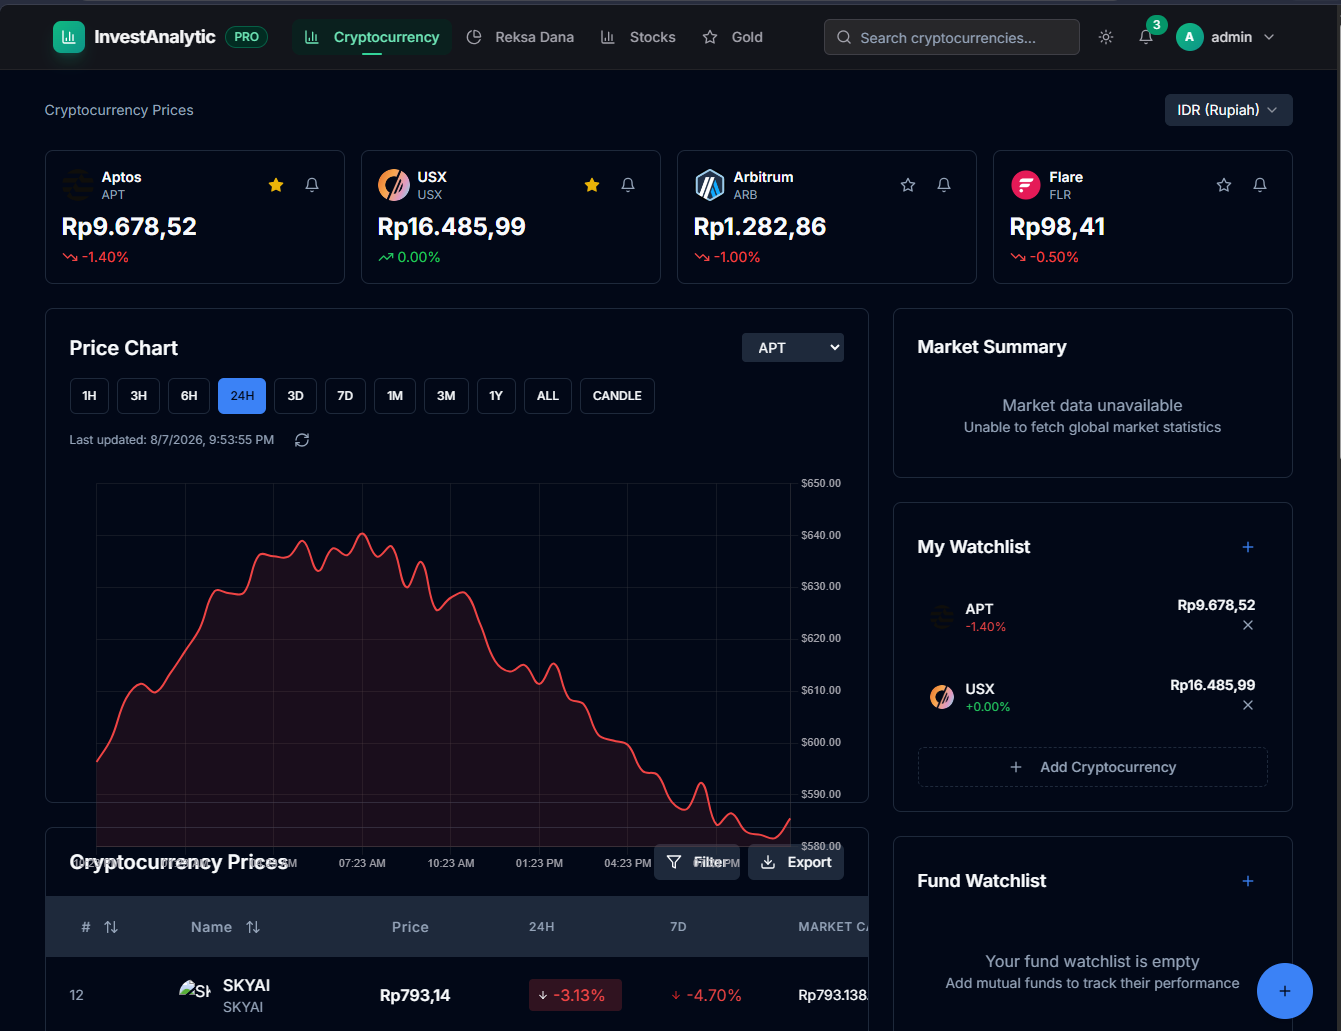
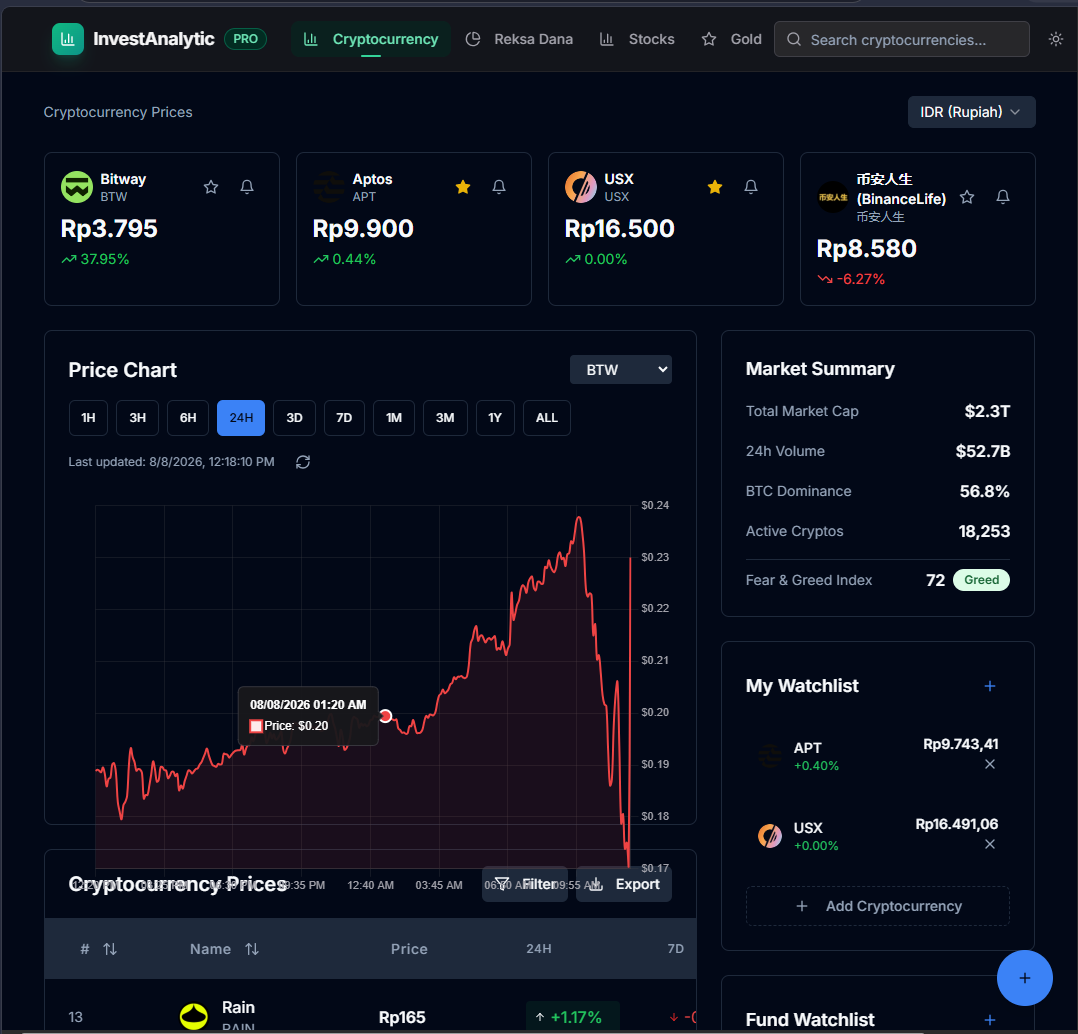
feat: add auth, reksa dana, postgres/sqlite fallback, redis support, dashboard fixes

diff --git a/server/storage-mem.ts b/server/storage-mem.ts
@@ -1,11 +1,12 @@
 import type { IStorage } from "./storage-base";
 import { 
-  type Cryptocurrency, type InsertCryptocurrency, type Watchlist, type InsertWatchlist, type PriceAlert, type InsertPriceAlert, type PriceHistory, type InsertPriceHistory, type User, type InsertUser, type MutualFund, type InsertMutualFund, type MutualFundHistory, type InsertMutualFundHistory, type FundWatchlist, type InsertFundWatchlist, type Stock, type InsertStock, type StockHistory, type InsertStockHistory, type StockWatchlist, type InsertStockWatchlist, type Gold, type InsertGold, type GoldHistory, type InsertGoldHistory, type GoldWatchlist, type InsertGoldWatchlist, type Portfolio, type InsertPortfolio, type CurrencyRate, type InsertCurrencyRate
+  type Cryptocurrency, type InsertCryptocurrency, type Watchlist, type InsertWatchlist, type PriceAlert, type InsertPriceAlert, type PriceHistory, type InsertPriceHistory, type User, type InsertUser, type MutualFund, type InsertMutualFund, type MutualFundHistory, type InsertMutualFundHistory, type FundWatchlist, type InsertFundWatchlist, type Stock, type InsertStock, type StockHistory, type InsertStockHistory, type StockWatchlist, type InsertStockWatchlist, type Gold, type InsertGold, type GoldHistory, type InsertGoldHistory, type GoldWatchlist, type InsertGoldWatchlist, type Portfolio, type InsertPortfolio, type CurrencyRate, type InsertCurrencyRate, type UserSession, type InsertUserSession
 } from "@shared/schema";
 import { randomUUID } from "crypto";
 
 export class MemStorage implements IStorage {
   private users = new Map<string, User>();
+  private userSessions = new Map<string, UserSession>();
   private cryptocurrencies = new Map<string, Cryptocurrency>();
   private watchlists = new Map<string, Watchlist>();
   private priceAlerts = new Map<string, PriceAlert>();
@@ -232,6 +233,20 @@ export class MemStorage implements IStorage {
     return history;
   }
 
+  async addFundHistoryBatch(historyData: InsertMutualFundHistory[]): Promise<MutualFundHistory[]> {
+    const results: MutualFundHistory[] = [];
+    for (const data of historyData) {
+      const id = randomUUID();
+      const history: MutualFundHistory = {
+        ...data,
+        id,
+      };
+      this.fundHistory.set(id, history);
+      results.push(history);
+    }
+    return results;
+  }
+
   async getFundHistory(fundId: string, days: number): Promise<MutualFundHistory[]> {
     const cutoffTime = new Date(Date.now() - (days * 24 * 60 * 60 * 1000));
     return Array.from(this.fundHistory.values())
@@ -332,6 +347,23 @@ export class MemStorage implements IStorage {
     return history;
   }
 
+  async addStockHistoryBatch(historyData: InsertStockHistory[]): Promise<StockHistory[]> {
+    const results: StockHistory[] = [];
+    for (const data of historyData) {
+      const id = randomUUID();
+      const history: StockHistory = {
+        id,
+        stockId: data.stockId,
+        price: data.price,
+        timestamp: new Date(),
+        volume: data.volume || null,
+      };
+      this.stockHistory.set(id, history);
+      results.push(history);
+    }
+    return results;
+  }
+
   async getStockHistory(stockId: string, hours: number): Promise<StockHistory[]> {
     const cutoffTime = new Date(Date.now() - (hours * 60 * 60 * 1000));
     return Array.from(this.stockHistory.values())
@@ -411,6 +443,21 @@ export class MemStorage implements IStorage {
     };
     this.goldHistory.set(id, history);
     return history;
+  }
+
+  async addGoldHistoryBatch(historyData: InsertGoldHistory[]): Promise<GoldHistory[]> {
+    const results: GoldHistory[] = [];
+    for (const data of historyData) {
+      const id = randomUUID();
+      const history: GoldHistory = {
+        ...data,
+        id,
+        timestamp: new Date()
+      };
+      this.goldHistory.set(id, history);
+      results.push(history);
+    }
+    return results;
   }
 
   async getGoldHistory(goldId: string, hours: number): Promise<GoldHistory[]> {

diff --git a/server/storage-sqlite.ts b/server/storage-sqlite.ts
@@ -534,6 +534,18 @@ export class SqliteStorage implements IStorage {
     return row;
   }
 
+  async addFundHistoryBatch(historyData: InsertMutualFundHistory[]): Promise<MutualFundHistory[]> {
+    const insert = db.prepare("INSERT INTO mutual_fund_history (id, fund_id, date, nav, timestamp) VALUES (?, ?, ?, ?, ?)");
+    const results: MutualFundHistory[] = [];
+    for (const data of historyData) {
+      const id = randomUUID();
+      const timestamp = new Date().toISOString();
+      insert.run(id, data.fundId, data.date, data.nav, timestamp);
+      results.push({ id, fundId: data.fundId, date: data.date, nav: data.nav, timestamp: new Date(timestamp) } as MutualFundHistory);
+    }
+    return results;
+  }
+
   async getFundHistory(fundId: string, days: number): Promise<MutualFundHistory[]> {
     const cutoffTime = new Date(Date.now() - (days * 24 * 60 * 60 * 1000)).toISOString();
     const rows = db.prepare("SELECT * FROM mutual_fund_history WHERE fund_id = ? AND date >= ? ORDER BY date ASC").all(fundId, cutoffTime) as MutualFundHistory[];
@@ -636,6 +648,18 @@ export class SqliteStorage implements IStorage {
     return row;
   }
 
+  async addStockHistoryBatch(historyData: InsertStockHistory[]): Promise<StockHistory[]> {
+    const insert = db.prepare("INSERT INTO stock_history (id, stock_id, price, volume, timestamp) VALUES (?, ?, ?, ?, ?)");
+    const results: StockHistory[] = [];
+    for (const data of historyData) {
+      const id = randomUUID();
+      const timestamp = new Date().toISOString();
+      insert.run(id, data.stockId, data.price, data.volume || null, timestamp);
+      results.push({ id, stockId: data.stockId, price: data.price, volume: data.volume || null, timestamp: new Date(timestamp) } as StockHistory);
+    }
+    return results;
+  }
+
   async getStockHistory(stockId: string, hours: number): Promise<StockHistory[]> {
     const cutoffTime = new Date(Date.now() - (hours * 60 * 60 * 1000)).toISOString();
     const rows = db.prepare("SELECT * FROM stock_history WHERE stock_id = ? AND timestamp >= ? ORDER BY timestamp ASC").all(stockId, cutoffTime) as StockHistory[];
@@ -720,6 +744,18 @@ export class SqliteStorage implements IStorage {
     db.prepare("INSERT INTO gold_history (id, gold_id, price) VALUES (?, ?, ?)").run(id, historyData.goldId, historyData.price);
     const row = db.prepare("SELECT * FROM gold_history WHERE id = ?").get(id) as GoldHistory;
     return row;
+  }
+
+  async addGoldHistoryBatch(historyData: InsertGoldHistory[]): Promise<GoldHistory[]> {
+    const insert = db.prepare("INSERT INTO gold_history (id, gold_id, price, timestamp) VALUES (?, ?, ?, ?)");
+    const results: GoldHistory[] = [];
+    for (const data of historyData) {
+      const id = randomUUID();
+      const timestamp = new Date().toISOString();
+      insert.run(id, data.goldId, data.price, timestamp);
+      results.push({ id, goldId: data.goldId, price: data.price, timestamp: new Date(timestamp) } as GoldHistory);
+    }
+    return results;
   }
 
   async getGoldHistory(goldId: string, hours: number): Promise<GoldHistory[]> {

diff --git a/shared/schema.ts b/shared/schema.ts
@@ -76,6 +76,26 @@ export const users = pgTable("users", {
   id: varchar("id").primaryKey().default(sql`gen_random_uuid()`),
   username: text("username").notNull().unique(),
   password: text("password").notNull(),
+  last_login: timestamp("last_login"),
+  last_activity: timestamp("last_activity"),
+  login_count: integer("login_count").default(0),
+  created_at: timestamp("created_at").defaultNow(),
+  updated_at: timestamp("updated_at").defaultNow(),
+});
+
+export const userSessions = pgTable("user_sessions", {
+  id: varchar("id").primaryKey().default(sql`gen_random_uuid()`),
+  userId: varchar("user_id").notNull().references(() => users.id),
+  browser: text("browser"),
+  os: text("os"),
+  device: text("device"),
+  ip_address: text("ip_address"),
+  country: text("country"),
+  city: text("city"),
+  user_agent: text("user_agent"),
+  session_start: timestamp("session_start").defaultNow(),
+  session_end: timestamp("session_end"),
+  is_active: boolean("is_active").default(true),
 });
 
 export const mutualFunds = pgTable("mutual_funds", {
@@ -379,6 +399,7 @@ export const insertWatchlistSchema = createInsertSchema(watchlists).omit({ id: t
 export const insertPriceAlertSchema = createInsertSchema(priceAlerts).omit({ id: true, createdAt: true, triggeredAt: true });
 export const insertPriceHistorySchema = createInsertSchema(priceHistory).omit({ id: true });
 export const insertUserSchema = createInsertSchema(users).pick({ username: true, password: true });
+export const insertUserSessionSchema = createInsertSchema(userSessions).omit({ id: true, session_start: true });
 export const insertMutualFundSchema = createInsertSchema(mutualFunds);
 export const insertMutualFundHistorySchema = createInsertSchema(mutualFundHistory).omit({ id: true });
 export const insertFundWatchlistSchema = createInsertSchema(fundWatchlists).omit({ id: true, createdAt: true });
@@ -401,6 +422,8 @@ export type PriceHistory = typeof priceHistory.$inferSelect;
 export type InsertPriceHistory = z.infer<typeof insertPriceHistorySchema>;
 export type User = typeof users.$inferSelect;
 export type InsertUser = z.infer<typeof insertUserSchema>;
+export type UserSession = typeof userSessions.$inferSelect;
+export type InsertUserSession = z.infer<typeof insertUserSessionSchema>;
 export type MutualFund = typeof mutualFunds.$inferSelect;
 export type InsertMutualFund = z.infer<typeof insertMutualFundSchema>;
 export type MutualFundHistory = typeof mutualFundHistory.$inferSelect;

diff --git a/server/storage-pg.ts b/server/storage-pg.ts
@@ -245,6 +245,18 @@ export class DbStorage implements IStorage {
     return history;
   }
 
+  async addFundHistoryBatch(historyData: InsertMutualFundHistory[]): Promise<MutualFundHistory[]> {
+    const values = historyData.map(data => ({ ...data, id: randomUUID(), date: data.date || new Date() }));
+    try {
+      return await db.insert(mutualFundHistory).values(values).returning();
+    } catch (error: any) {
+      if (error?.code === '23503') {
+        return values as any[];
+      }
+      throw error;
+    }
+  }
+
   async getFundHistory(fundId: string, days: number): Promise<MutualFundHistory[]> {
     const cutoffTime = new Date(Date.now() - (days * 24 * 60 * 60 * 1000));
     const result = await db.select().from(mutualFundHistory).where(and(eq(mutualFundHistory.fundId, fundId), sql`${mutualFundHistory.date} >= ${cutoffTime}`)).orderBy(mutualFundHistory.date);
@@ -330,6 +342,19 @@ export class DbStorage implements IStorage {
     }
   }
 
+  async addStockHistoryBatch(historyData: InsertStockHistory[]): Promise<StockHistory[]> {
+    const id = randomUUID();
+    const values = historyData.map(data => ({ ...data, id, timestamp: data.timestamp || new Date() }));
+    try {
+      return await db.insert(stockHistory).values(values).returning();
+    } catch (error: any) {
+      if (error?.code === '23503') {
+        return values as any[];
+      }
+      throw error;
+    }
+  }
+
   async getStockHistory(stockId: string, hours: number): Promise<StockHistory[]> {
     const cutoffTime = new Date(Date.now() - (hours * 60 * 60 * 1000));
     const result = await db.select().from(stockHistory).where(and(eq(stockHistory.stockId, stockId), sql`${stockHistory.timestamp} >= ${cutoffTime}`)).orderBy(stockHistory.timestamp);
@@ -403,6 +428,18 @@ export class DbStorage implements IStorage {
     } catch (error: any) {
       if (error?.code === '23503') {
         return historyData as any;
+      }
+      throw error;
+    }
+  }
+
+  async addGoldHistoryBatch(historyData: InsertGoldHistory[]): Promise<GoldHistory[]> {
+    const values = historyData.map(data => ({ ...data, id: randomUUID(), timestamp: data.timestamp || new Date() }));
+    try {
+      return await db.insert(goldHistory).values(values).returning();
+    } catch (error: any) {
+      if (error?.code === '23503') {
+        return values as any[];
       }
       throw error;
     }

diff --git a/server/storage-base.ts b/server/storage-base.ts
@@ -2,6 +2,12 @@ export interface IStorage {
   getUser(id: string): Promise<any | undefined>;
   getUserByUsername(username: string): Promise<any | undefined>;
   createUser(user: any): Promise<any>;
+  updateUserActivity(userId: string): Promise<any>;
+  updateUserLogin(userId: string): Promise<any>;
+
+  getUserSessions(userId: string): Promise<any[]>;
+  createUserSession(session: any): Promise<any>;
+  endUserSession(sessionId: string): Promise<any>;
 
   getCryptocurrencies(limit?: number): Promise<any[]>;
   getCryptocurrency(id: string): Promise<any | undefined>;
@@ -27,6 +33,7 @@ export interface IStorage {
   searchMutualFunds(query: string): Promise<any[]>;
 
   addFundHistory(historyData: any): Promise<any>;
+  addFundHistoryBatch(historyData: any[]): Promise<any[]>;
   getFundHistory(fundId: string, days: number): Promise<any[]>;
 
   getFundWatchlist(userId: string): Promise<any[]>;
@@ -40,6 +47,7 @@ export interface IStorage {
 
   getStockHistory(stockId: string, hours: number): Promise<any[]>;
   addStockHistory(historyData: any): Promise<any>;
+  addStockHistoryBatch(historyData: any[]): Promise<any[]>;
 
   getStockWatchlist(userId: string): Promise<any[]>;
   addToStockWatchlist(watchlistItem: any): Promise<any>;
@@ -52,6 +60,7 @@ export interface IStorage {
 
   getGoldHistory(goldId: string, hours: number): Promise<any[]>;
   addGoldHistory(historyData: any): Promise<any>;
+  addGoldHistoryBatch(historyData: any[]): Promise<any[]>;
 
   getGoldWatchlist(userId: string): Promise<any[]>;
   addToGoldWatchlist(watchlistItem: any): Promise<any>;

diff --git a/README.md b/README.md
@@ -14,7 +14,7 @@ A comprehensive Indonesian investment platform for tracking **Cryptocurrency**, 
 - **Authentication** — Secure login with session-based auth
 - **Real-Time Prices** — Live cryptocurrency, stock, gold, and fund market data with automatic updates
   - Gold prices sourced from goldprice.dev with live XAU/USD spot rates
-- **Historical Charts** — Interactive price/NAV history across multiple time ranges with line and candlestick views
+- **Historical Charts** — Interactive price/NAV history across multiple time ranges with line views
 - **Watchlists** — Save and favorite cryptocurrencies, mutual funds, stocks, and gold
 - **Price Alerts** — Get notified when prices hit your targets
 - **Portfolio Tracking** — Monitor holdings and performance across asset classes
@@ -48,6 +48,16 @@ A comprehensive Indonesian investment platform for tracking **Cryptocurrency**, 
 - CoinGecko API (cryptocurrency)
 - Yahoo Finance / seeded data (Stocks, Reksa Dana)
 - goldprice.dev / ExchangeRate API (Gold, currency conversion)
+
+## Screenshots
+
+| Dashboard (Light) | Dashboard (Dark) | Login |
+|:---:|:---:|:---:|
+| ![Dashboard Light](img/dasboard.png) | ![Dashboard Dark](img/dasboard-dark.png) | ![Login](img/login.png) |
+
+| Recent Screenshot |
+|:---:|
+| ![Screenshot](img/Screenshot%202026-08-07%20222307.png) |
 
 ## Prerequisites
 
@@ -193,3 +203,20 @@ This project includes co-authored commits for pair programming sessions.
 
 Contributions are welcome! Please feel free to submit a Pull Request.
 
+## Recent Changes
+
+### Graph & Icon Repairs (2026-08-08)
+
+- **Chart.js Setup Deduplication** — Created `client/src/lib/chartSetup.ts` to centralize `Chart.register()` calls, eliminating duplicate registration across `PriceChart`, `StockChart`, `GoldChart`, and `FundChart`.
+- **Tooltip Fix** — Removed invalid `labelColor` callback from all chart components (silent no-op in Chart.js v4 that prevented custom tooltip label colors from rendering).
+- **Duplicate Auto-Refresh Removed** — Eliminated manual `setInterval` refetch in chart components that conflicted with React Query's built-in `refetchInterval: 60000`, which was causing double network requests every 60 seconds.
+- **Candlestick Mode Removed** — Removed simulated/fabricated OHLC candlestick data generation and toggle buttons from all chart components. The previous implementation derived fake high/low values from single price points using a deterministic hash, producing misleading visualizations. Charts now use clean line mode only.
+- **Dead Code Cleanup** — Removed unused `uniqueCanvasId` variables and canvas `id` props that were never referenced by Chart.js. Removed `chartType` state and related UI controls from all chart components.
+- **Unused Dependencies Removed** — Removed `recharts` and `react-icons` from `package.json` and deleted the unused `client/src/components/ui/chart.tsx` (365 lines of dead Recharts wrapper code).
+- **Google Fonts Optimized** — Reduced `client/index.html` font imports from 30+ families to only `Inter`, the only font actually used in the app.
+- **TypeScript Fixes** — Fixed 3 type errors in `server/routes.ts`: cast `cat` to `keyof typeof categoryMap`, cast `comp[0]` to `string` before `.toLowerCase()`, and cast `comp[5]` to `number` before arithmetic.
+- **StockChart Live Update Fixed** — Repaired broken `useEffect` in `StockChart.tsx` that declared `newData` but never used it, missing `chart.update()`, with wrong dependencies.
+- **AssetImage Component** — Created `client/src/components/ui/asset-image.tsx` to provide robust image rendering with automatic fallback icons for stocks, gold, funds, and crypto when external favicon URLs fail. Updated `StockOverview`, `StockTable`, `GoldOverview`, `GoldTable`, `FundOverview`, `FundTable`, `MarketOverview`, `CryptocurrencyTable`, `PriceAlerts`, `Watchlist`, and `Header` to use the new component.
+- **Favicon URL Fix** — Corrected all Google favicon URLs in `server/routes.ts` from `?size=128` to `&sz=128` to match Google's actual API parameter.
+- **Mock Data Timestamp Fix** — Fixed erroneous `* 24` multiplier in stock and gold history API mock data generation that was producing incorrect timestamps relative to the requested time range.
+- **Batch Insert Infrastructure** — Added `addStockHistoryBatch`, `addFundHistoryBatch`, and `addGoldHistoryBatch` methods to all storage implementations (`storage-mem.ts`, `storage-sqlite.ts`, `storage-pg.ts`) to support efficient bulk seeding of 5 years of historical data.
